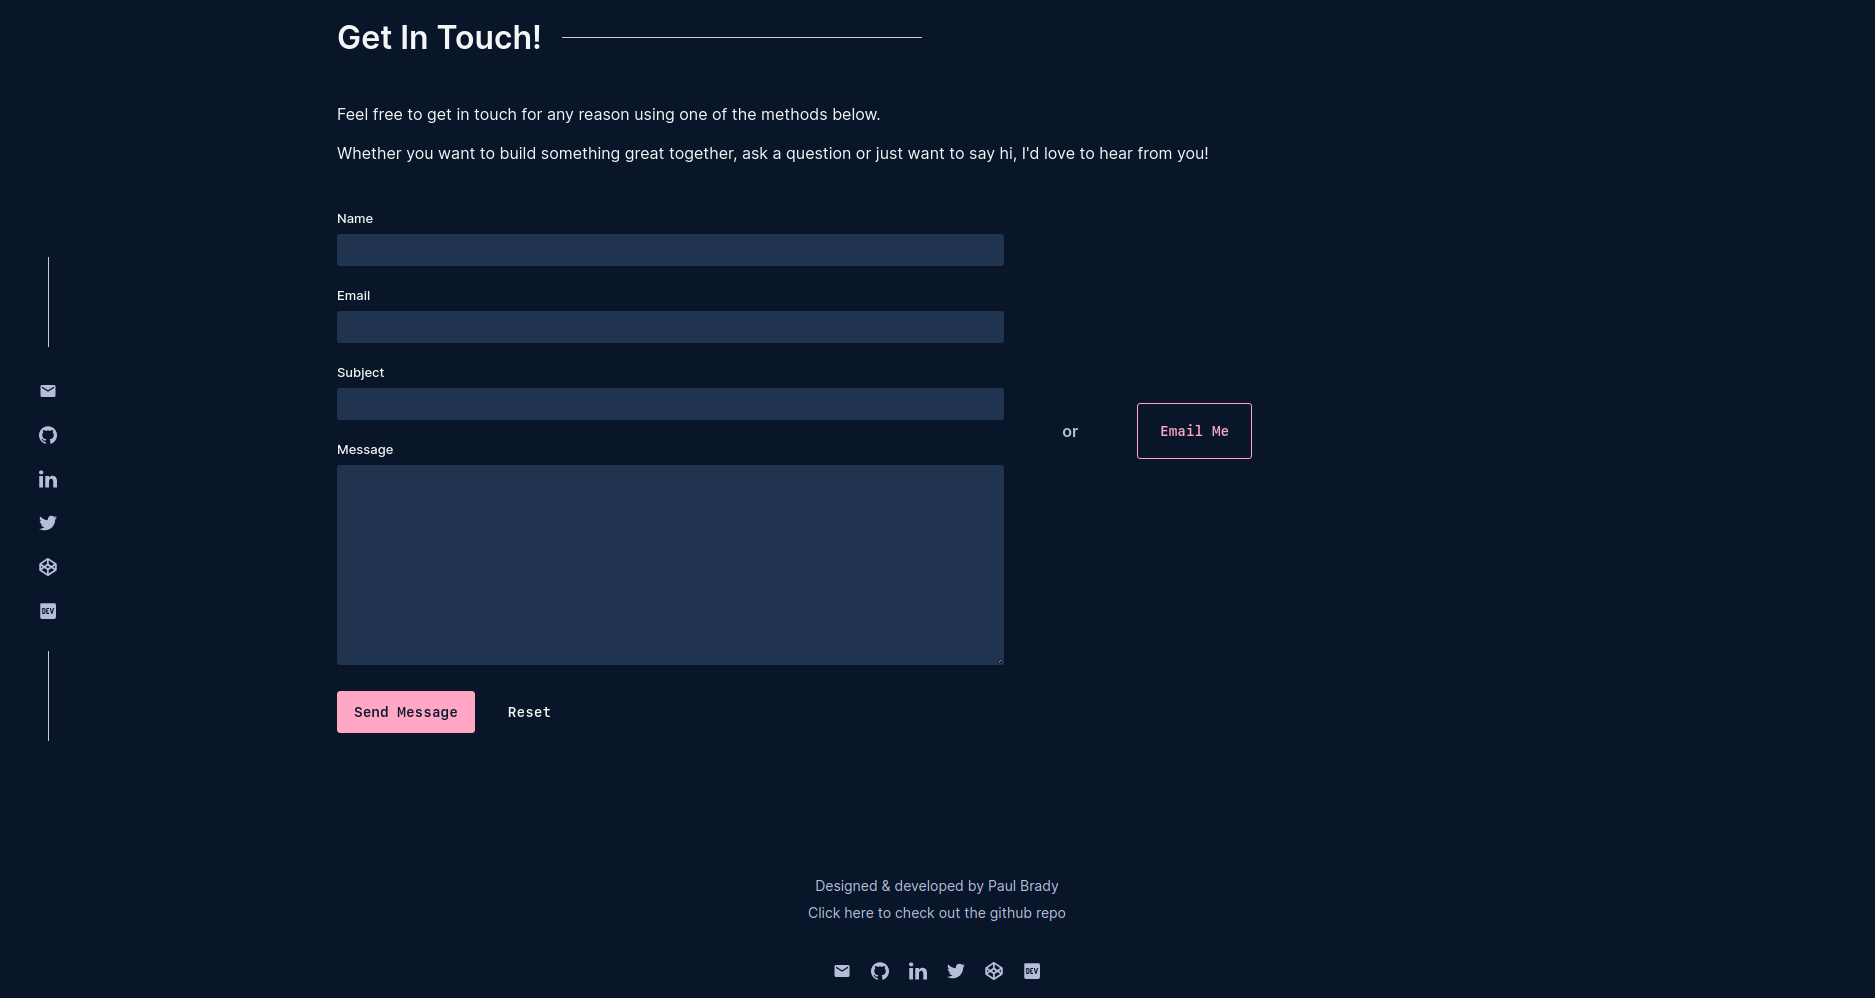
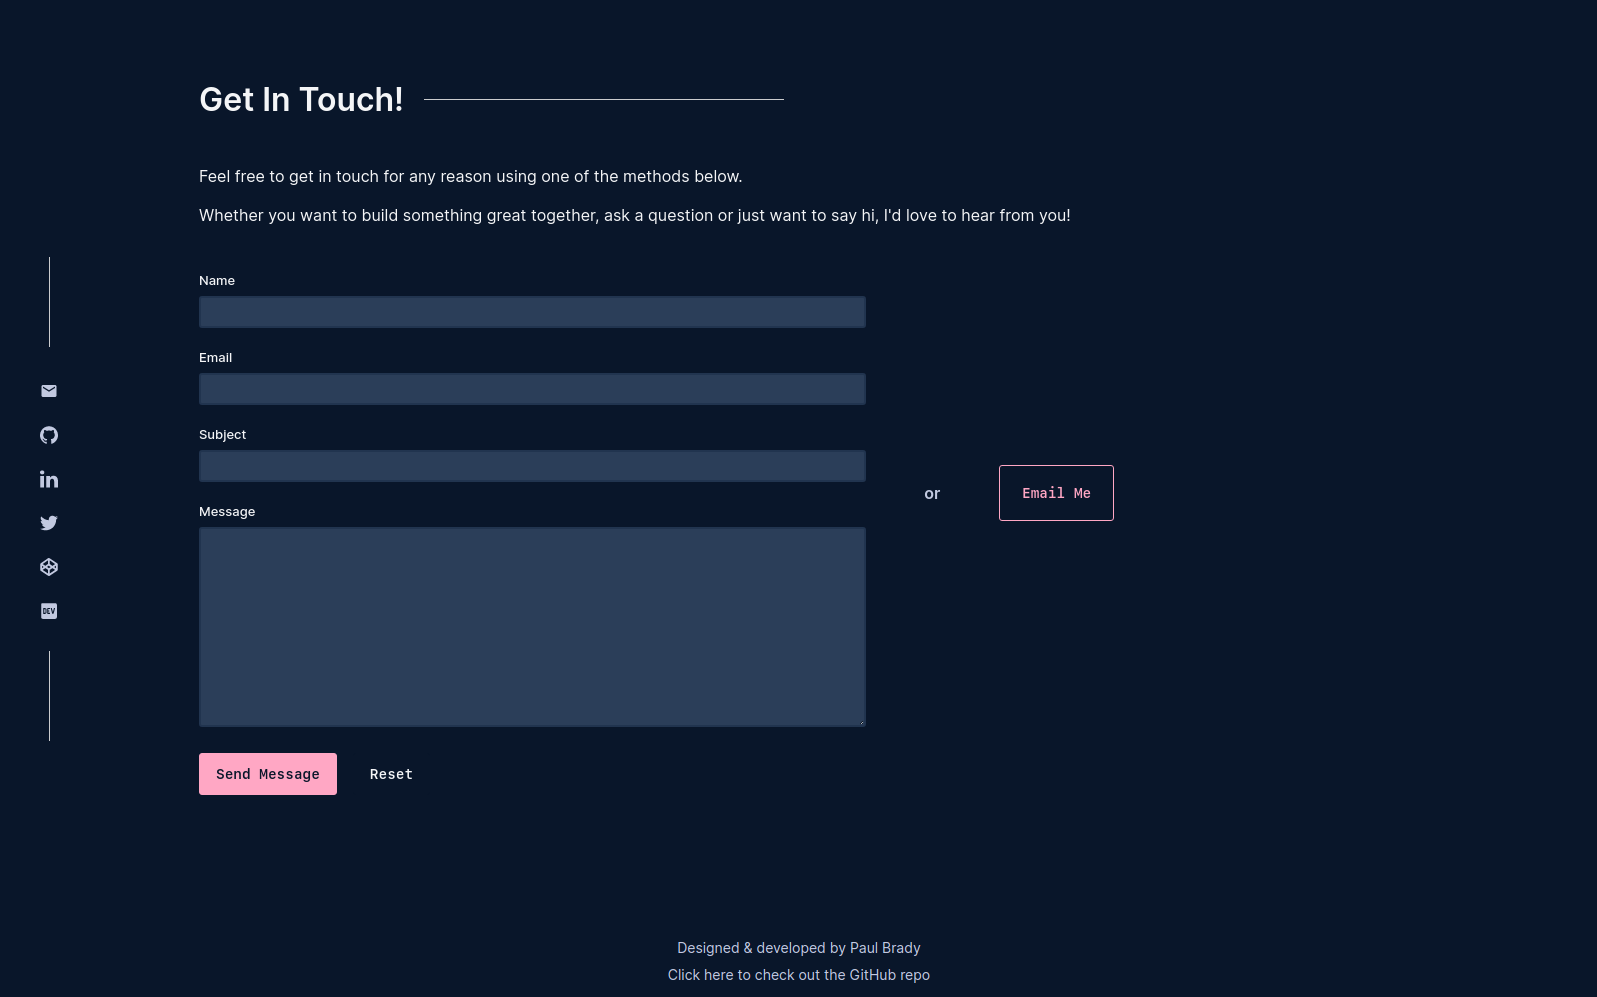
Updated themeing and projects content

diff --git a/src/styles/global-styles/theme.js b/src/styles/global-styles/theme.js
@@ -7,6 +7,9 @@ const theme = css`
         --color-indigo: #4433ff;
         --color-indigo-light: #5847ff;
         --color-indigo-dark: #301feb;
+        --color-blue-darker: #8ebeeb;
+        --color-blue-dark: #aacdee;
+        --color-blue: #c5dcf1;
         --color-blue-light: #dfebf6;
         --color-blue-light-alt: #c8d3dd;
         --color-green: #64ffda;
@@ -26,7 +29,7 @@ const theme = css`
         --color-white-5: #cbccce;
         --color-slate-1: #e5eafb;
         --color-slate-2: #ccd6f6;
-        --color-slate-3: #b5bdd9;
+        --color-slate-3: #c2c9e0;
         --color-slate-4: #a1adce;
         --color-slate-5: #939ebd;
         --color-navy-1: #09162a;
@@ -35,6 +38,7 @@ const theme = css`
         --color-navy-3-alt: #1a2b42;
         --color-navy-4: #21344f;
         --color-navy-5: #2b3e59;
+        --color-navy-6: #354863;
         --color-grey-dark-1: #373737;
         --color-grey-dark-2: #525252;
         --color-grey-dark-3: #777;
@@ -42,6 +46,7 @@ const theme = css`
         --color-grey-light-2: #ddd;
         --color-grey-light-3: #ccc;
         --color-grey-light-4: #bbb;
+        --color-grey-light-5: #aaa;
 
         --color-primary: var(--color-indigo);
         --color-primary-light: var(--color-indigo-light);
@@ -59,21 +64,20 @@ const theme = css`
         --color-danger: var(--color-red);
         --color-code-text: var(--color-text-primary-2);
         --color-code-background: var(--color-background-primary-2);
-        --color-text-highlight: var(--color-blue-light);
         --color-field-background: var(--color-white-2);
-        --color-field-background-hover: var(--color-white-3);
+        --color-field-background-hover: var(--color-white-2);
         --color-field-background-active: var(--color-white-1);
-        --color-field-border: var(--color-white-4);
-        --color-field-border-hover: var(--color-white-5);
+        --color-field-border: var(--color-white-3);
+        --color-field-border-hover: var(--color-white-4);
         --color-field-border-active: var(--color-primary);
         --color-border-primary: var(--color-white-5);
         --color-socials: var(--color-text-primary-2);
         --color-socials-hover: var(--color-indigo);
         --color-theme-toggle: var(--color-blue-light);
         --color-theme-toggle-background: var(--color-navy-5);
-        --color-scrollbar: var(--color-grey-light-3);
-        --color-scrollbar-active: var(--color-grey-light-4);
-        --color-menu-background: rgb(23, 42, 69, 0.95);
+        --color-scrollbar: var(--color-blue-dark);
+        --color-scrollbar-active: var(--color-blue-darker);
+        --color-menu-background: rgba(23, 42, 69, 0.95);
         --color-box-shadow: rgba(0, 0, 0, 0.25);
 
         &.dark-mode {
@@ -93,15 +97,15 @@ const theme = css`
             --color-text-secondary-1: var(--color-background-primary-1);
             --color-socials: var(--color-text-primary-2);
             --color-socials-hover: var(--color-green);
-            --color-text-highlight: var(--color-blue-light);
             --color-danger: var(--color-red-light);
-            --color-scrollbar: var(--color-navy-4);
+            --color-scrollbar: var(--color-navy-6);
             --color-scrollbar-active: var(--color-navy-5);
-            --color-field-background: var(--color-navy-4);
-            --color-field-background-hover: var(--color-navy-3);
+            --color-field-background: var(--color-navy-5);
+            --color-field-background-hover: var(--color-navy-4);
             --color-field-background-active: var(--color-navy-5);
             --color-field-border: var(--color-navy-4);
             --color-field-border-hover: var(--color-navy-3);
+            --color-menu-background: rgba(9, 22, 42, 0.95);
             --color-box-shadow: rgba(7, 18, 34, 0.25);
             --color-theme-toggle: var(--color-soft-pink);
         }

diff --git a/src/components/menu.js b/src/components/menu.js
@@ -2,7 +2,6 @@ import React from 'react';
 import { Link } from 'gatsby';
 import PropTypes from 'prop-types';
 import styled from 'styled-components';
-import { CSSTransition, TransitionGroup } from 'react-transition-group';
 
 import { Icon, OutboundLink } from '@components';
 import { navLinks, socialMedia } from '@config';
@@ -87,11 +86,10 @@ const StyledLink = styled(Link)`
 const SocialsContainer = styled.ul`
     ${mixins.flexCenter};
     list-style: none;
-    /* position: absolute; */
     bottom: 2rem;
 `;
 const SocialsLink = styled(OutboundLink)`
-    padding: 1.8rem;
+    padding: 2rem;
     transition: var(--transition);
 
     svg {
@@ -130,15 +128,16 @@ const Menu = ({ isMenuOpen, toggleMenu, logo: Logo }) => {
                     <Logo
                         className={`${isMenuOpen ? 'fadeleft-enter-active' : 'fadeleft-enter'}`}
                         style={{
-                            color: 'var(--color-soft-pink)',
+                            color: 'var(--color-white-1)',
                             marginRight: 0,
                         }}
                     />
                     <NavContainer>
                         <NavList>
                             {navLinks &&
-                                navLinks.map(({ url, name }) => (
+                                navLinks.map(({ url, name }, i) => (
                                     <NavListItem
+                                        key={`menu-nav-${i}`}
                                         className={`${
                                             isMenuOpen ? 'fadeleft-enter-active' : 'fadeleft-enter'
                                         }`}>
@@ -149,8 +148,8 @@ const Menu = ({ isMenuOpen, toggleMenu, logo: Logo }) => {
                     </NavContainer>
                     <SocialsContainer>
                         {socialMedia &&
-                            socialMedia.map(({ url, name }) => (
-                                <li>
+                            socialMedia.map(({ url, name }, i) => (
+                                <li key={`menu-socials-${i}`}>
                                     <SocialsLink
                                         className={`${
                                             isMenuOpen ? 'fadeleft-enter-active' : 'fadeleft-enter'
@@ -172,7 +171,7 @@ const Menu = ({ isMenuOpen, toggleMenu, logo: Logo }) => {
 Menu.propTypes = {
     isMenuOpen: PropTypes.bool.isRequired,
     toggleMenu: PropTypes.func.isRequired,
-    logo: PropTypes.node.isRequired,
+    logo: PropTypes.object.isRequired,
 };
 
 export default Menu;

diff --git a/src/components/header.js b/src/components/header.js
@@ -19,7 +19,7 @@ const HeaderContainer = styled.header`
     position: fixed;
     top: 0;
     background-color: ${props =>
-        props.scrollDirection === 'up' ? 'var(--color-background-secondary-1)' : 'transparent'};
+        props.scrollDirection === 'none' ? 'transparent' : 'var(--color-background-secondary-1)'};
     transition: transform var(--transition-time) var(--ease),
         box-shadow var(--transition-time) var(--ease), height var(--transition-time) var(--ease),
         background-color var(--transition-time) var(--ease);
@@ -125,12 +125,15 @@ const LinksList = styled.ul`
     padding: 0;
     margin: 0;
     list-style: none;
+
+    li {
+        margin-right: 2rem;
+    }
 `;
 const Logo = styled(Link).attrs({ to: '/', children: 'Paul Brady' })`
-    font-weight: 600;
-    font-size: 22px;
-    margin-right: 4rem;
-    color: var(--color-primary);
+    font-weight: 400;
+    font-size: 20px;
+    color: var(--color-text-primary-1);
 
     ${media.bp800`
         margin-right: auto;
@@ -139,7 +142,7 @@ const Logo = styled(Link).attrs({ to: '/', children: 'Paul Brady' })`
 const StyledLink = styled(Link)`
     font-family: var(--fonts-primary);
     font-size: var(--font-size-sm);
-    margin-right: 2rem;
+
     padding: 1.2rem 1rem;
     font-weight: 600;
     color: var(--color-text-primary-1);
@@ -190,6 +193,7 @@ class Header extends Component {
         const { isMounted, isMenuOpen, scrollDirection, lastDistanceFromTop } = this.state;
         const distanceFromTopRequired = 10;
         const distanceFromTop = window.scrollY;
+
         if (
             !isMounted ||
             Math.abs(lastDistanceFromTop - distanceFromTop) <= distanceFromTopRequired ||
@@ -235,7 +239,7 @@ class Header extends Component {
         const fadeDownClass = isHome ? 'fadedown' : '';
 
         const animatedLinks = [
-            <CSSTransition classNames={fadeDownClass} timeout={timeout}>
+            <CSSTransition key="header-logo" classNames={fadeDownClass} timeout={timeout}>
                 <li>
                     <Logo />
                 </li>

diff --git a/src/styles/mixins.js b/src/styles/mixins.js
@@ -12,7 +12,7 @@ const mixins = {
             width: ${config.width || '8px'};
         }
         &::-webkit-scrollbar-track {
-            background: none;
+            background: var(--color-background-secondary-1);
         }
         &::-webkit-scrollbar-thumb {
             border-radius: 10rem;
@@ -206,17 +206,17 @@ const mixins = {
         border-radius: var(--border-radius);
         color: var(--color-text-primary-1);
         background-color: var(--color-field-background);
-        border: 2px solid var(--color-field-border);
+        border: 1.5px solid var(--color-field-border);
 
         &:hover {
             background-color: var(--color-field-background-hover);
-            border: 2px solid var(--color-field-border-hover);
+            border: 1.5px solid var(--color-field-border-hover);
         }
 
         &:focus,
         &:active {
             background-color: var(--color-field-background-active);
-            border: 2px solid var(--color-field-border-active);
+            border: 1.5px solid var(--color-field-border-active);
         }
 
         ${props =>
@@ -225,7 +225,7 @@ const mixins = {
                 &,
                 &:invalid,
                 &:focus {
-                    border: 2px solid var(--color-danger) !important;
+                    border: 1.5px solid var(--color-danger) !important;
                 }
             `};
     `,

diff --git a/src/components/footer.js b/src/components/footer.js
@@ -48,7 +48,7 @@ const Footer = () => (
             <FooterLeftContainer>
                 <OutboundLink href={repo} variant="styled-link">
                     <p>Designed & developed by Paul Brady </p>
-                    <p>Click here to check out the github repo</p>
+                    <p>Click here to check out the GitHub repo</p>
                 </OutboundLink>
             </FooterLeftContainer>
             <FooterRightContainer>

diff --git a/src/components/home/projects.js b/src/components/home/projects.js
@@ -116,15 +116,7 @@ const LinksContainer = styled.div`
     position: relative;
     margin-left: -1rem;
 
-    a:hover {
-        svg {
-            color: var(--color-socials-hover);
-            transition: var(--transition);
-        }
-    }
-
     && svg {
-        color: var(--color-text-primary-1);
         width: 24px;
         height: 24px;
     }

diff --git a/src/styles/global-styles/index.js b/src/styles/global-styles/index.js
@@ -80,13 +80,9 @@ const GlobalStyles = createGlobalStyle`
 
   ${mixins.customScrollbar({
       color: 'var(--color-scrollbar)',
-      width: '12px',
+      width: '15px',
       activeColor: 'var(--color-scrollbar-active)',
   })}
-
-  ::selection {
-    background-color:  var(--color-text-highlight);
-  }
 
   #root {
     ${mixins.flexColumnCenter}

diff --git a/src/content/projects/personal-website/index.md b/src/content/projects/personal-website/index.md
@@ -20,6 +20,6 @@ tech:
     - GraphQL
 ---
 
-made with gatsby, front end ssr, using graphql and plugins to be more optimized and to qury dat from many sources such as wordpress, mysql, markdonw.
+My personal site was built using Gatsby.js, the fantastic modern react SSR framework. I took advantage of GraphQL and the many available plugins to thoroughly optimize the final site and query data from different data sources.
 
-I loved making this site and particularly enjoyed implementing a dark mode theme which involves injecting a script to detect user preferences before loading the theme
+I loved making this site and particularly enjoyed implementing a dark mode theme which involves injecting a script before loading the content to detect user theme preferences.
